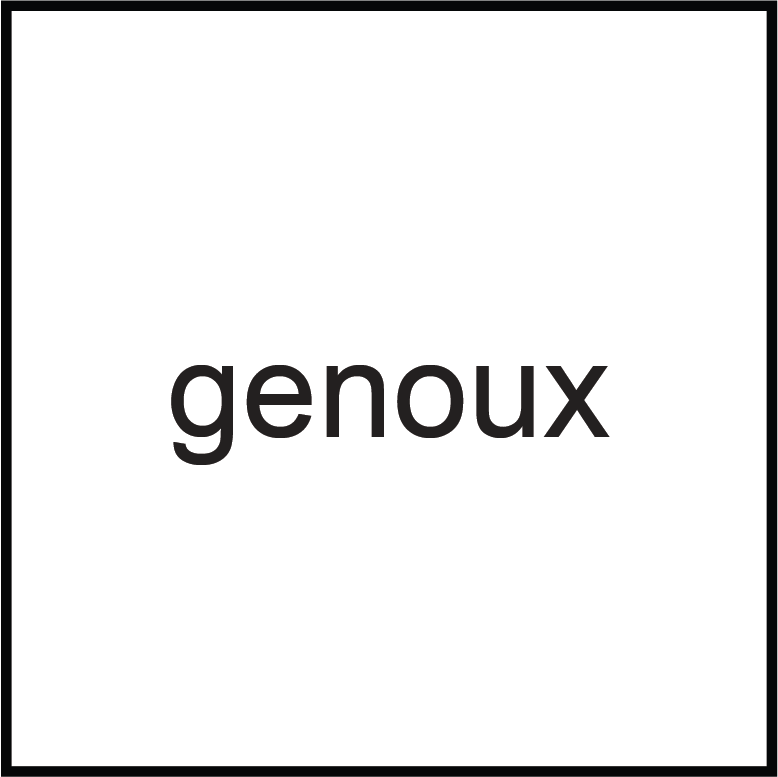
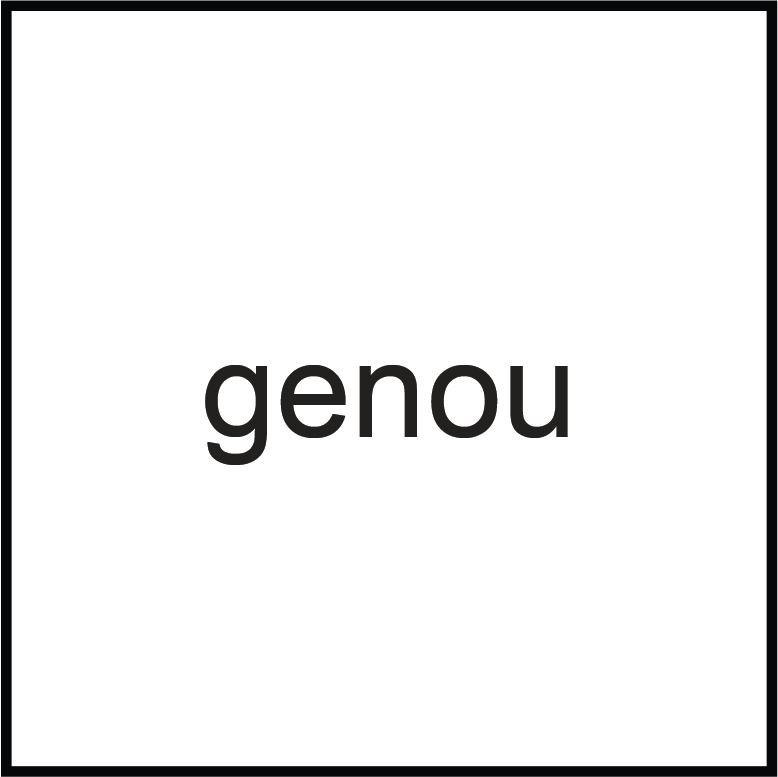
fix encoding

Changed region(s): [[0.2159, 0.4633, 0.7712, 0.6178]]

diff --git a/sequences/instr.py b/sequences/instr.py
@@ -12,7 +12,7 @@ def get_txt(lang:str, instr_fn:str)-> str:
 
 def read_instr(fn:str)-> str:
     ''' Read instruction text from file '''
-    with open(fn, 'r') as fn:
+    with open(fn, 'r', encoding='utf-8') as fn:
         txt = fn.read()
     return txt
 
